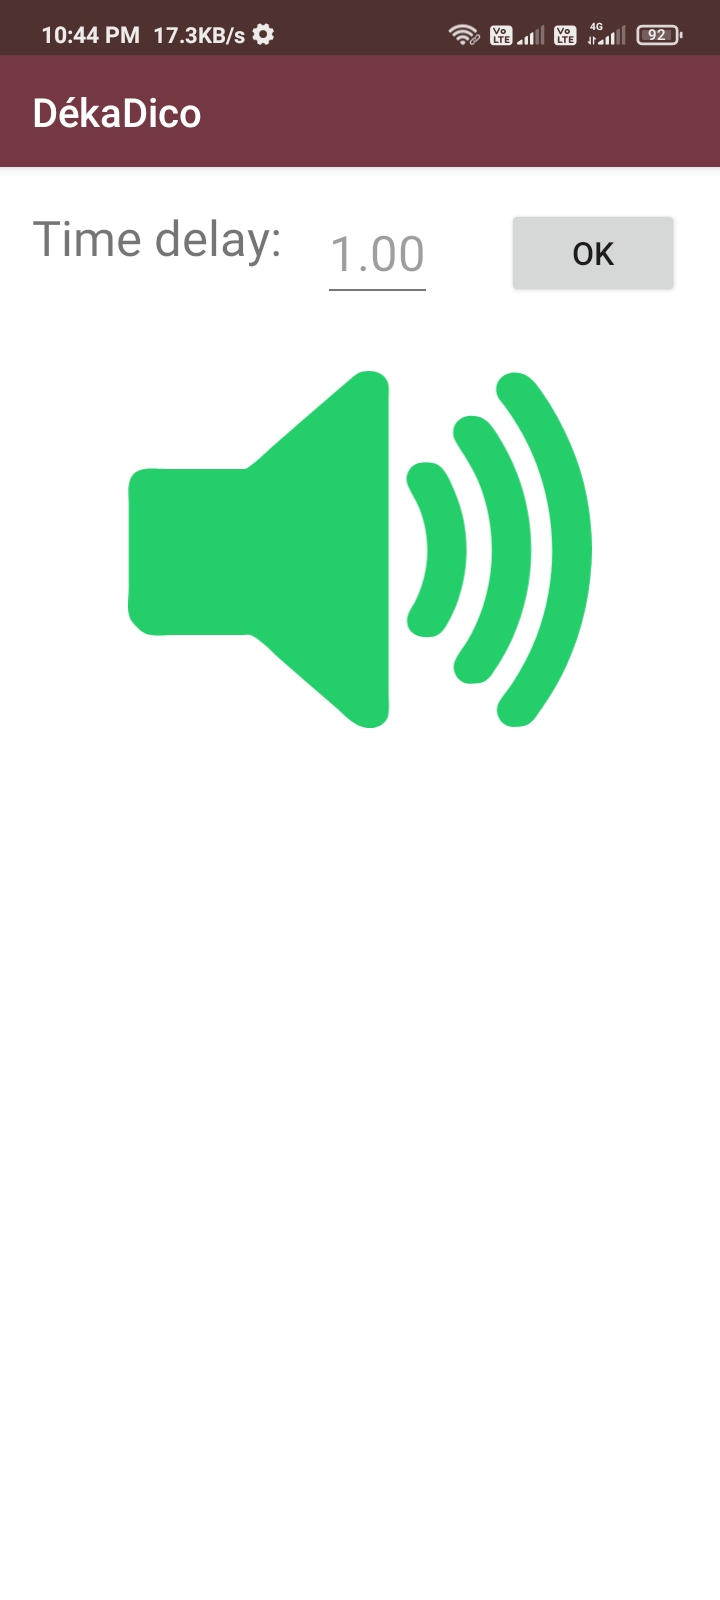
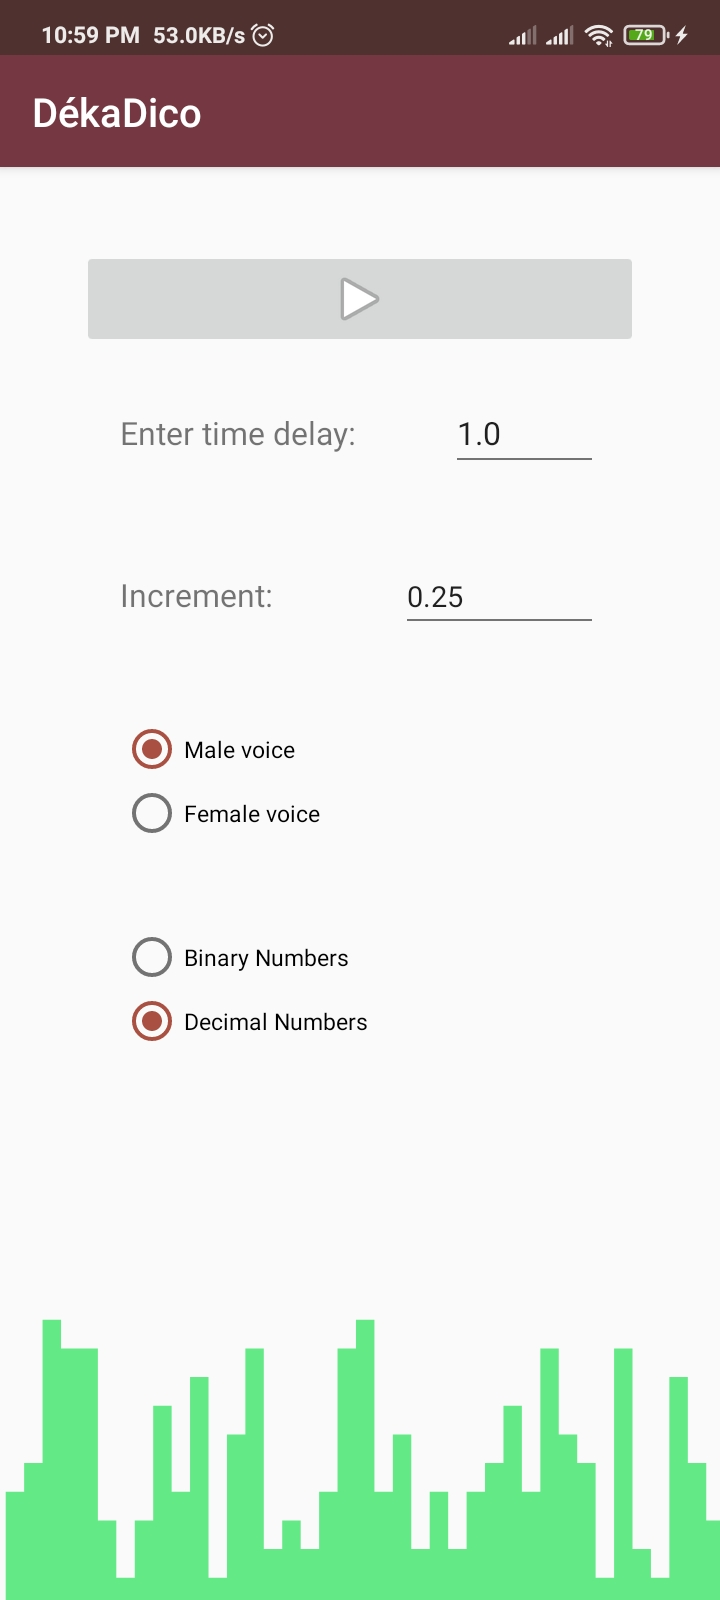
modify ui bg

diff --git a/README.md b/README.md
@@ -18,11 +18,9 @@ It's a memory training app, which is intended for those interested in improving 
 - Easy to use recall system
 - Increment/Decrement time delays on the fly, to adjust to your current memorizing speed
 - User can now choose between male/female voice.
-
-#### Already Implemented, but scheduled for next release:
-
 - Choose between binary and decimal numbers to practice.
 - Save choices and preferences automatically.
+- improve UI
 
 ### Running the Program
 
@@ -35,6 +33,14 @@ For any problems relating to this app, please create a new 'issue' in this GitHu
 ### Contact
 
 If you have any questions, bug reports, suggestions or other wishes, feel free to contact me on vivek.thazhathattil@gmail.com. I'll respond to you at the earliest.
+
+### Get Started with Memorization!
+
+* If you are a newbie into the world of mnemonics and memorization, this is probably the best resouce to get you going : [ArtOfMemory](https://artofmemory.com/wiki/Main_Page/)
+
+* Once you have familiarized with the basic memorization techniques, you can move on to more interesting methods used by memory athletes like Person-Action-Object, Major system, Dominic system, Ben's system etc. You can pick one as the weapon of your choice or create one on your own, and use apps like this to train and improve your skills.
+
+* Consistency is key to improvement. Practicing daily for as little as 5-10 minutes will help boost your skill level more than an hour of practice once every week.
 
 ### License
 
